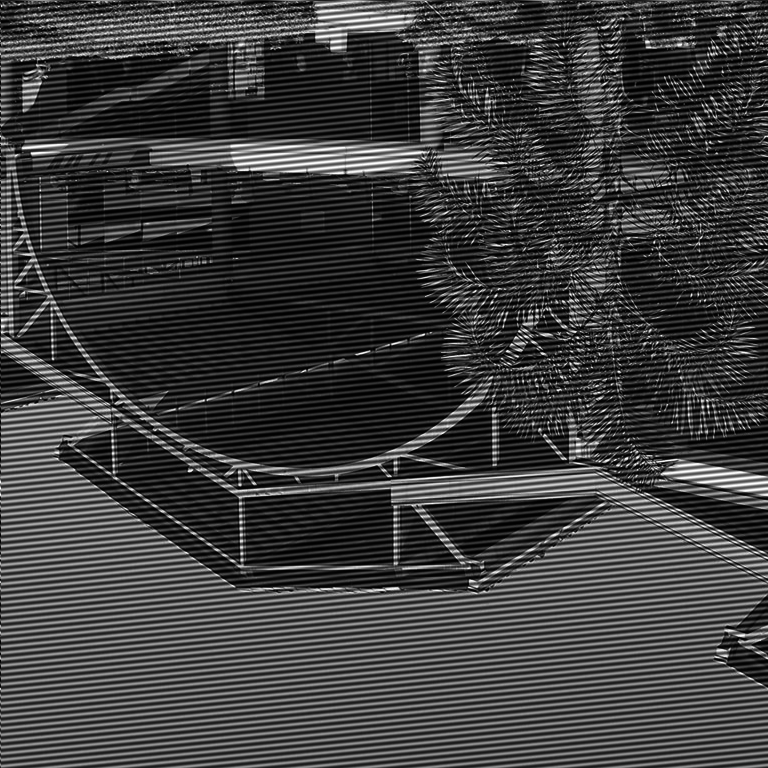
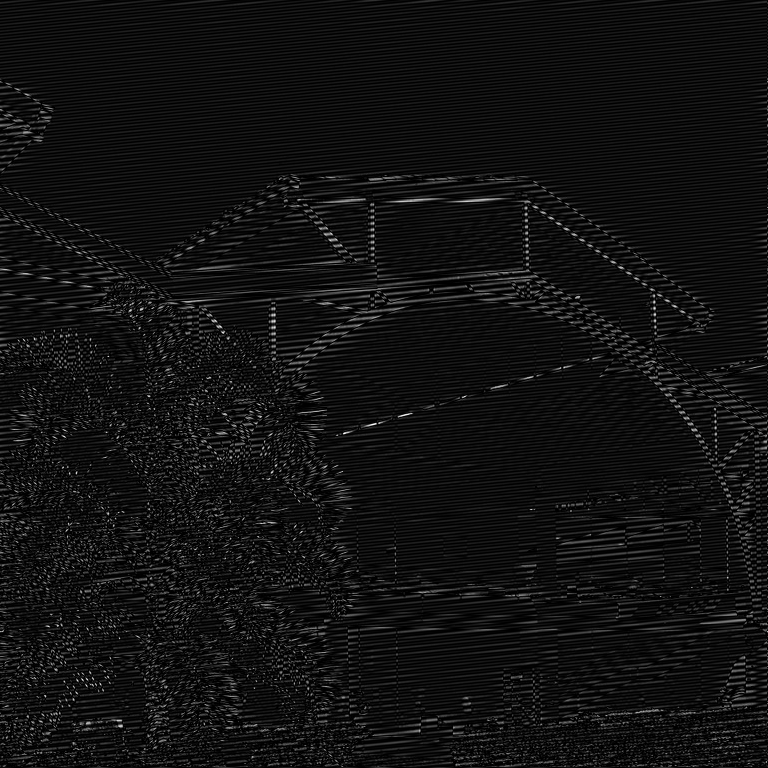
Cambio de la transmitancia en el plano de Fourier
Comienzo el intento de filtrar las frecuencias correspondientes a las líneas en la imagen, creando un punto negro que pienso usar para tapar las frecuencias mencionadas

diff --git a/IO_Entrega1_Punto4b.py b/IO_Entrega1_Punto4b.py
@@ -21,19 +21,20 @@ def firstlens(t1, deltaxprim, deltayprim, w_length, f_length):
 def transmittanceFP(UF1, w_length, f_length, deltau, deltav, M, N, u, v):
 	"""
 	Transmittance in the Fourier Plane to manipulate the frequencies of the image
-	In this case a low-pass filter
+	In this case to filter out the frequencies corresponding to the lines of the image
 	"""
 	x=np.arange(-M,M)
 	y=np.arange(-N,N)
 	x,y=np.meshgrid(x,y)
-	lim=1500**2   #radio de 1500um
-	t2_matrix=(deltau*x)**2 + (deltav*y)**2
-	t2_matrix[np.where(t2_matrix<=lim)]=1
-	t2_matrix[np.where(t2_matrix>lim)]=1
+	lim=250**2   #radio de 25um
+	Obj=(deltau*x)**2 + (deltav*y)**2
+	Obj[np.where(Obj<=lim)]=0
+	Obj[np.where(Obj>lim)]=1
 
-	t2=t2_matrix*UF1          
 
-	return t2,t2_matrix
+	t2=Obj*UF1          
+
+	return t2,Obj
 
 
 def secondlens(t2, deltau, deltav, w_length, f_length):
